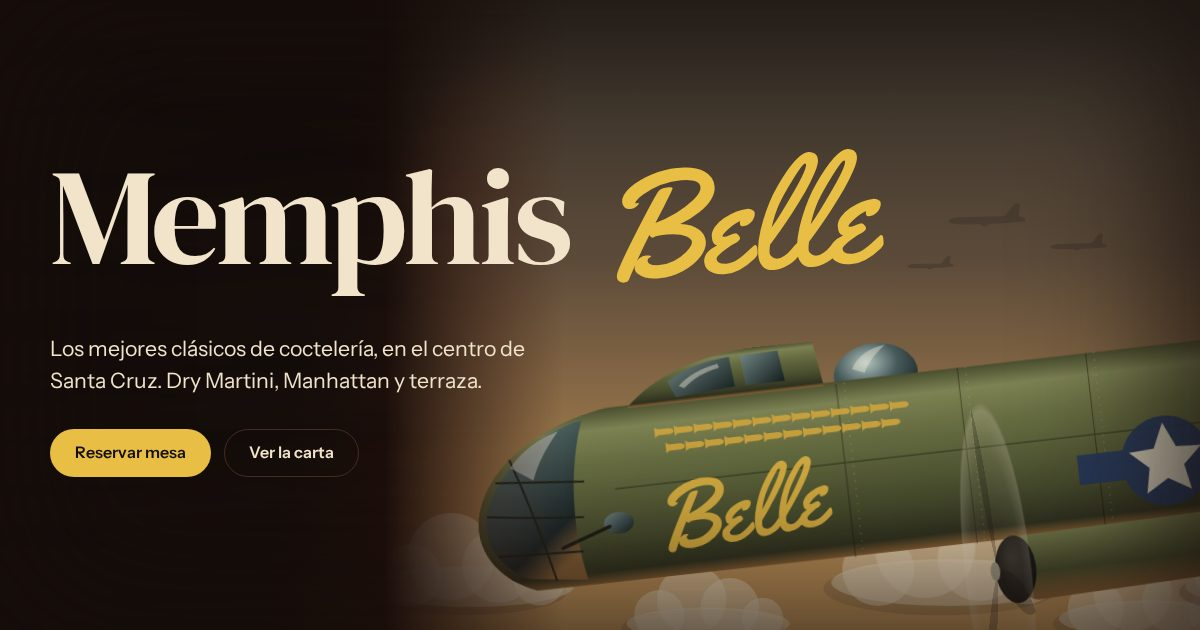
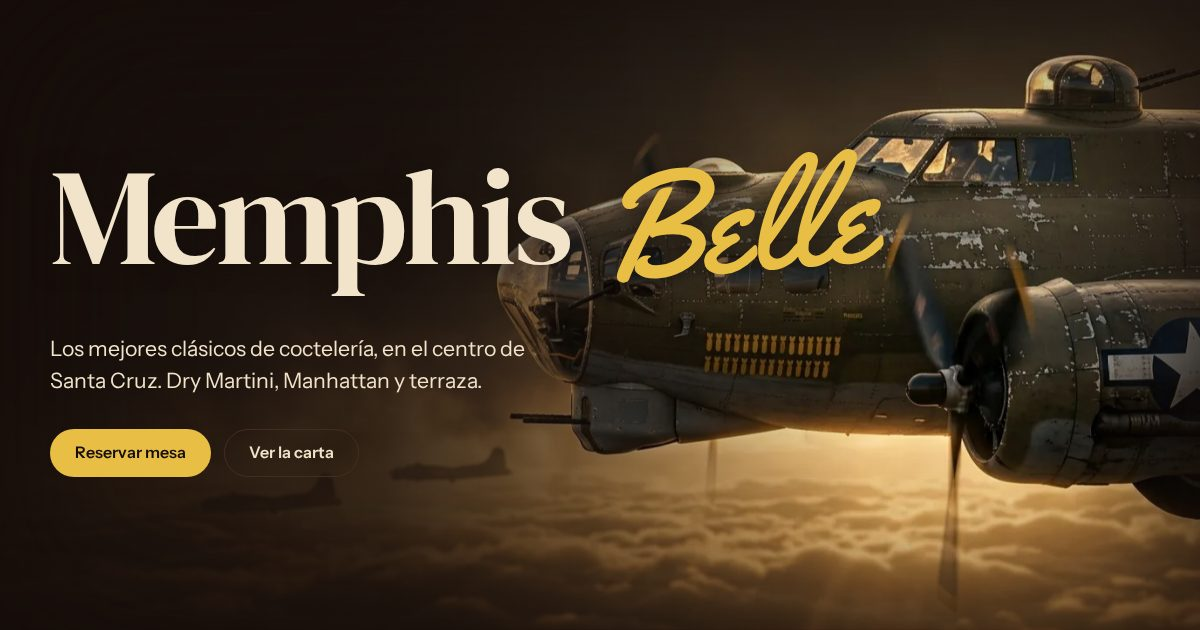
Portada con la foto del B-17 al atardecer
Sustituye la ilustración vectorial por la imagen P1 (generada con Gemini a
partir de docs/PROMPTS-HIGGSFIELD.md): el morro del B-17 sobre las nubes del
atardecer, con la formación a lo lejos.

- Decorativa (alt vacío) y con carga prioritaria: WebP y JPG a 640, 1024 y
  1376 px (17-55 KB en WebP).
- Velo a la izquierda y sombra suave en el título, que pasa por delante del
  morro como en un cartel de cine; en el móvil, franja bajo los botones.
- Acercamiento de cámara muy lento (24 s, ida y vuelta, solo transform);
  con "reducir movimiento", quieta.
- Sin imagen en site.js, vuelve la ilustración vectorial.
- Imagen al compartir regenerada con la nueva portada.

Claude-Session: https://claude.ai/code/session_015FWVJHTK1DFuU4oBGvgKEP

diff --git a/public/css/site.css b/public/css/site.css
@@ -200,6 +200,23 @@ ul { margin: 0; padding: 0; list-style: none; }
   @keyframes nubes { to { transform: translateX(-1200px); } }
 }
 
+/* ---------- Portada con foto (hero.image en site.js) ----------
+   El B-17 al atardecer de fondo, anclado a la derecha. Un velo fijo oscurece la izquierda para que el
+   título se lea siempre. Movimiento: un acercamiento de cámara muy lento (24 s, ida y vuelta, curva
+   senoidal de easings.co), solo transform. Con "reducir movimiento", quieta. */
+.hero-foto { position: absolute; z-index: -2; inset: 0; overflow: hidden; }
+.hero-foto img { position: absolute; inset: 0; width: 100%; height: 100%; object-fit: cover; object-position: 72% 45%; }
+/* Como en un cartel de cine, el título pasa por delante del morro: una sombra suave lo separa de la foto. */
+.hero.con-foto .hero-titulo { text-shadow: 0 2px 24px rgba(22, 14, 11, .85); }
+.hero.con-foto::before {
+  opacity: 1; mix-blend-mode: normal; background-image: none;
+  background: linear-gradient(90deg, rgba(22, 14, 11, .94) 0%, rgba(22, 14, 11, .82) 32%, rgba(22, 14, 11, .35) 54%, rgba(22, 14, 11, 0) 72%);
+}
+@media (prefers-reduced-motion: no-preference) {
+  .hero-foto img { animation: acercar 24s cubic-bezier(0.37, 0, 0.63, 1) infinite alternate; transform-origin: 70% 50%; }
+  @keyframes acercar { from { transform: scale(1); } to { transform: scale(1.06); } }
+}
+
 .hero-titulo {
   font-family: var(--serif);
   font-size: clamp(3.6rem, 13vw, 8.5rem);
@@ -408,6 +425,12 @@ footer a { text-decoration: none; transition: color .15s ease; }
   .nav ul, .btn-nav { display: none; } /* reservar y llamar van en la barra fija de abajo */
   .hero { min-height: auto; padding: 4rem 0 4.5rem; }
   .hero { padding-bottom: 16rem; }
+  /* Con foto: el avión como franja bajo los botones, fundido con el fondo por arriba. */
+  .hero.con-foto { padding-bottom: 17rem; }
+  .hero-foto { top: auto; height: 18rem; }
+  .hero-foto img { object-position: 62% 50%; }
+  .hero.con-foto .hero-titulo { text-shadow: none; }
+  .hero.con-foto::before { background: linear-gradient(180deg, var(--hollin) 0%, var(--hollin) calc(100% - 18rem), rgba(22, 14, 11, .2) calc(100% - 12rem), rgba(22, 14, 11, 0) 100%); }
   /* En el móvil, el cartel va por debajo de los botones, a todo el ancho, sin tapar el texto. */
   .bombardero {
     top: auto; bottom: 0; right: 0; width: 100%; height: 15rem; /* el SVG recorta por arriba y deja el avión */

diff --git a/test/static.test.js b/test/static.test.js
@@ -248,16 +248,22 @@ describe('portada y móvil', () => {
     assert.match(css, /env\(safe-area-inset-bottom/);
   });
 
-  test('el bombardero de la portada es decorativo y solo se mueve si el sistema lo permite', () => {
+  test('la portada: foto del B-17 (o, sin foto, el bombardero vectorial), decorativa y quieta si se pide', () => {
     const hero = index.slice(index.indexOf('id="inicio"'), index.indexOf('id="estrella"'));
-    assert.match(hero, /<div class="bombardero" aria-hidden="true">/);
-    const logoPath = /<path[^>]* d="([^"]+)"/.exec(readFileSync(new URL('../public/img/logo-belle.svg', import.meta.url), 'utf8'))[1];
-    assert.ok(hero.includes(`d="${logoPath}"`), 'el nombre del morro es el trazado del logotipo');
-    const animaciones = /@media \(prefers-reduced-motion: no-preference\) \{\s*\.bombardero-vuelo \{ animation: flotar/;
-    assert.match(css, animaciones);
-    // Fuera de ese bloque no hay ninguna animación del avión.
+    if (site.hero.image) {
+      assert.match(hero, /<picture class="hero-foto">/);
+      assert.match(hero, /<img [^>]*alt="" [^>]*fetchpriority="high">/); // decorativa y lo primero que se descarga
+      assert.doesNotMatch(hero, /loading="lazy"/);
+      assert.doesNotMatch(hero, /class="bombardero"/);
+      for (const w of site.hero.image.widths) assert.ok(hero.includes(`${site.hero.image.src}-${w}.webp ${w}w`), w);
+    } else {
+      assert.match(hero, /<div class="bombardero" aria-hidden="true">/);
+      const logoPath = /<path[^>]* d="([^"]+)"/.exec(readFileSync(new URL('../public/img/logo-belle.svg', import.meta.url), 'utf8'))[1];
+      assert.ok(hero.includes(`d="${logoPath}"`), 'el nombre del morro es el trazado del logotipo');
+    }
+    // Ninguna animación de la portada fuera de "prefers-reduced-motion: no-preference".
     const fuera = css.replace(/@media \(prefers-reduced-motion: no-preference\) \{[\s\S]*?\n\}/g, '');
-    assert.doesNotMatch(fuera, /animation: (flotar|girar)/);
+    assert.doesNotMatch(fuera, /animation: (flotar|girar|nubes|acercar)/);
   });
 
   test('las animaciones respetan "reducir movimiento" y no se usa transition: all', () => {

diff --git a/src/views/landing.js b/src/views/landing.js
@@ -13,12 +13,13 @@ export const NAV = [
 
 // Imagen de ambiente de fondo, decorativa (alt vacío): WebP y JPG en varios anchos, el navegador
 // elige el más ligero que le sirve. "lazy" porque va bajo la portada.
-const fondo = (image, clase) => {
+// prioridad: para la portada (es lo primero que se ve): se descarga enseguida, sin "lazy".
+const fondo = (image, clase, { prioridad = false } = {}) => {
   const srcset = (ext) => image.widths.map((w) => `assets/${esc(image.src)}-${w}.${ext} ${w}w`).join(', ');
   const medio = image.widths[Math.floor(image.widths.length / 2)];
   return `<picture class="${clase}">
     <source type="image/webp" srcset="${srcset('webp')}" sizes="100vw">
-    <img src="assets/${esc(image.src)}-${medio}.jpg" srcset="${srcset('jpg')}" sizes="100vw" alt="" width="${image.width}" height="${image.height}" loading="lazy" decoding="async">
+    <img src="assets/${esc(image.src)}-${medio}.jpg" srcset="${srcset('jpg')}" sizes="100vw" alt="" width="${image.width}" height="${image.height}" ${prioridad ? 'fetchpriority="high"' : 'loading="lazy" decoding="async"'}>
   </picture>`;
 };
 
@@ -35,8 +36,8 @@ const estadoAhora = (site, extraClass = '') => `<p class="estado ${extraClass}" 
 
 function hero(site) {
   const { hero: h } = site;
-  return `<section class="hero" id="inicio">
-  ${BOMBARDERO}
+  return `<section class="hero${h.image ? ' con-foto' : ''}" id="inicio">
+  ${h.image ? fondo(h.image, 'hero-foto', { prioridad: true }) : BOMBARDERO}
   <div class="wrap">
     <h1 class="hero-titulo">Memphis <span class="belle">Belle</span></h1>
     <p class="hero-lead">${esc(h.lead)}</p>

diff --git a/src/content/site.js b/src/content/site.js
@@ -57,6 +57,9 @@ export const site = {
     lead: 'Los mejores clásicos de coctelería, en el centro de Santa Cruz. Dry Martini, Manhattan y terraza.',
     cta: 'Reservar mesa',
     secondary: 'Ver la carta',
+    // Fondo de la portada: el B-17 al atardecer (generada con Gemini a partir de docs/PROMPTS-HIGGSFIELD.md,
+    // P1). Decorativa, con alt vacío. Sin imagen, la portada usa la ilustración vectorial (bombardero.js).
+    image: { src: 'img/portada/b17', widths: [640, 1024, 1376], width: 1376, height: 768 },
   },
 
   // EL LOCAL (servicios de la ficha de Google). Mosaico de 3: el primero va grande.

diff --git a/docs/DISENO.md b/docs/DISENO.md
@@ -21,6 +21,7 @@ Portada (cartel del B-17), Cóctel estrella, La carta, El local, Visítanos, Res
 
 ## Imágenes
 
+- **Portada**: foto del B-17 al atardecer (P1, generada con Gemini a partir de `docs/PROMPTS-HIGGSFIELD.md`), decorativa (`alt` vacío) y con carga prioritaria. Un velo oscurece la izquierda y una sombra suave separa el título del morro, como en un cartel de cine. Movimiento: acercamiento de cámara muy lento (24 s, ida y vuelta); con "reducir movimiento", quieta. En el móvil, franja bajo los botones. WebP y JPG a 640, 1024 y 1376 px en `public/img/portada/`. Si se quita `hero.image` de `site.js`, vuelve la ilustración vectorial (`src/views/bombardero.js`).
 - **Reserva tu mesa**: fondo con la imagen de ambiente A1 (una barra en penumbra con una copa, generada con ChatGPT a partir de `docs/PROMPTS-HIGGSFIELD.md`). No es el local: va con `alt` vacío y sin pie de foto. El texto y el formulario van sobre la zona oscura de la izquierda; un degradado fijo asegura el contraste. En el móvil, la foto es una franja arriba que se funde en el fondo. Versiones WebP y JPG a 640, 1024 y 1536 px en `public/img/ambiente/`.
 - "El local" y "Visítanos" solo con fotos reales del bar.
 

diff --git a/docs/PROMPTS-HIGGSFIELD.md b/docs/PROMPTS-HIGGSFIELD.md
@@ -43,7 +43,7 @@ text, letters, numbers, words, watermark, logo, brand labels, signature, frame, 
 | # | Archivo | Sección de la web | Formato | Prioridad |
 |---|---|---|---|---|
 | A1 | `A1-barra.png` | Fondo de "Reserva tu mesa" y **referencia de estilo** | 4:5 | **Hecha** (3:2, en la web) |
-| P1 | `P1-portada-b17.png` | Portada, escritorio | 16:9 | 1 (prueba) |
+| P1 | `P1-portada-b17.png` | Portada, escritorio | 16:9 | **Hecha** (Gemini, en la web) |
 | O1 | `O1-martini.png` | Fondo de "La carta" | 3:2 | 1 (prueba) |
 | P2 | `P2-portada-b17-movil.png` | Portada, móvil | 4:5 | 2 |
 | P3 | `P3-portada-pinup.png` | Variante de portada con pin-up en el morro | 16:9 | 2 |
